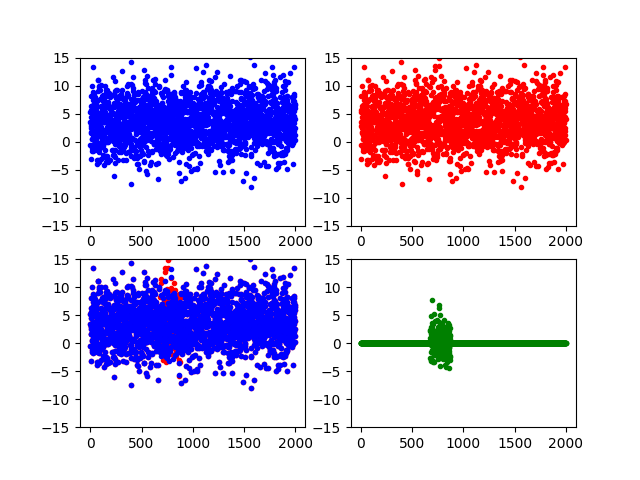
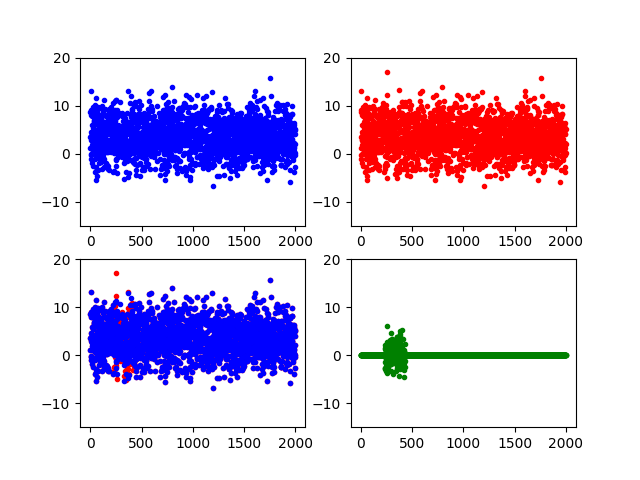
sdfds

diff --git a/plot_data.py b/plot_data.py
@@ -27,21 +27,24 @@ f = (s1+s2+s3)+f1
 
 print('check:',np.array_equal(f,s))
 	
+k1=-15
+k2=20
+
 plt.figure(1)
 plt.subplot(2,2,1)
-plt.ylim((-15,15))
+plt.ylim((k1,k2))
 plt.plot(s, 'b.')
 
 plt.subplot(2,2,2)
-plt.ylim((-15,15))
+plt.ylim((k1,k2))
 plt.plot(f, 'r.')
 
 plt.subplot(2,2,3)
-plt.ylim((-15,15))
+plt.ylim((k1,k2))
 plt.plot(f, 'r.', s, 'b.', )
 
 plt.subplot(2,2,4)
-plt.ylim((-15,15))
+plt.ylim((k1,k2))
 plt.plot(f1, 'g.')
 
 plt.savefig('data.png')
